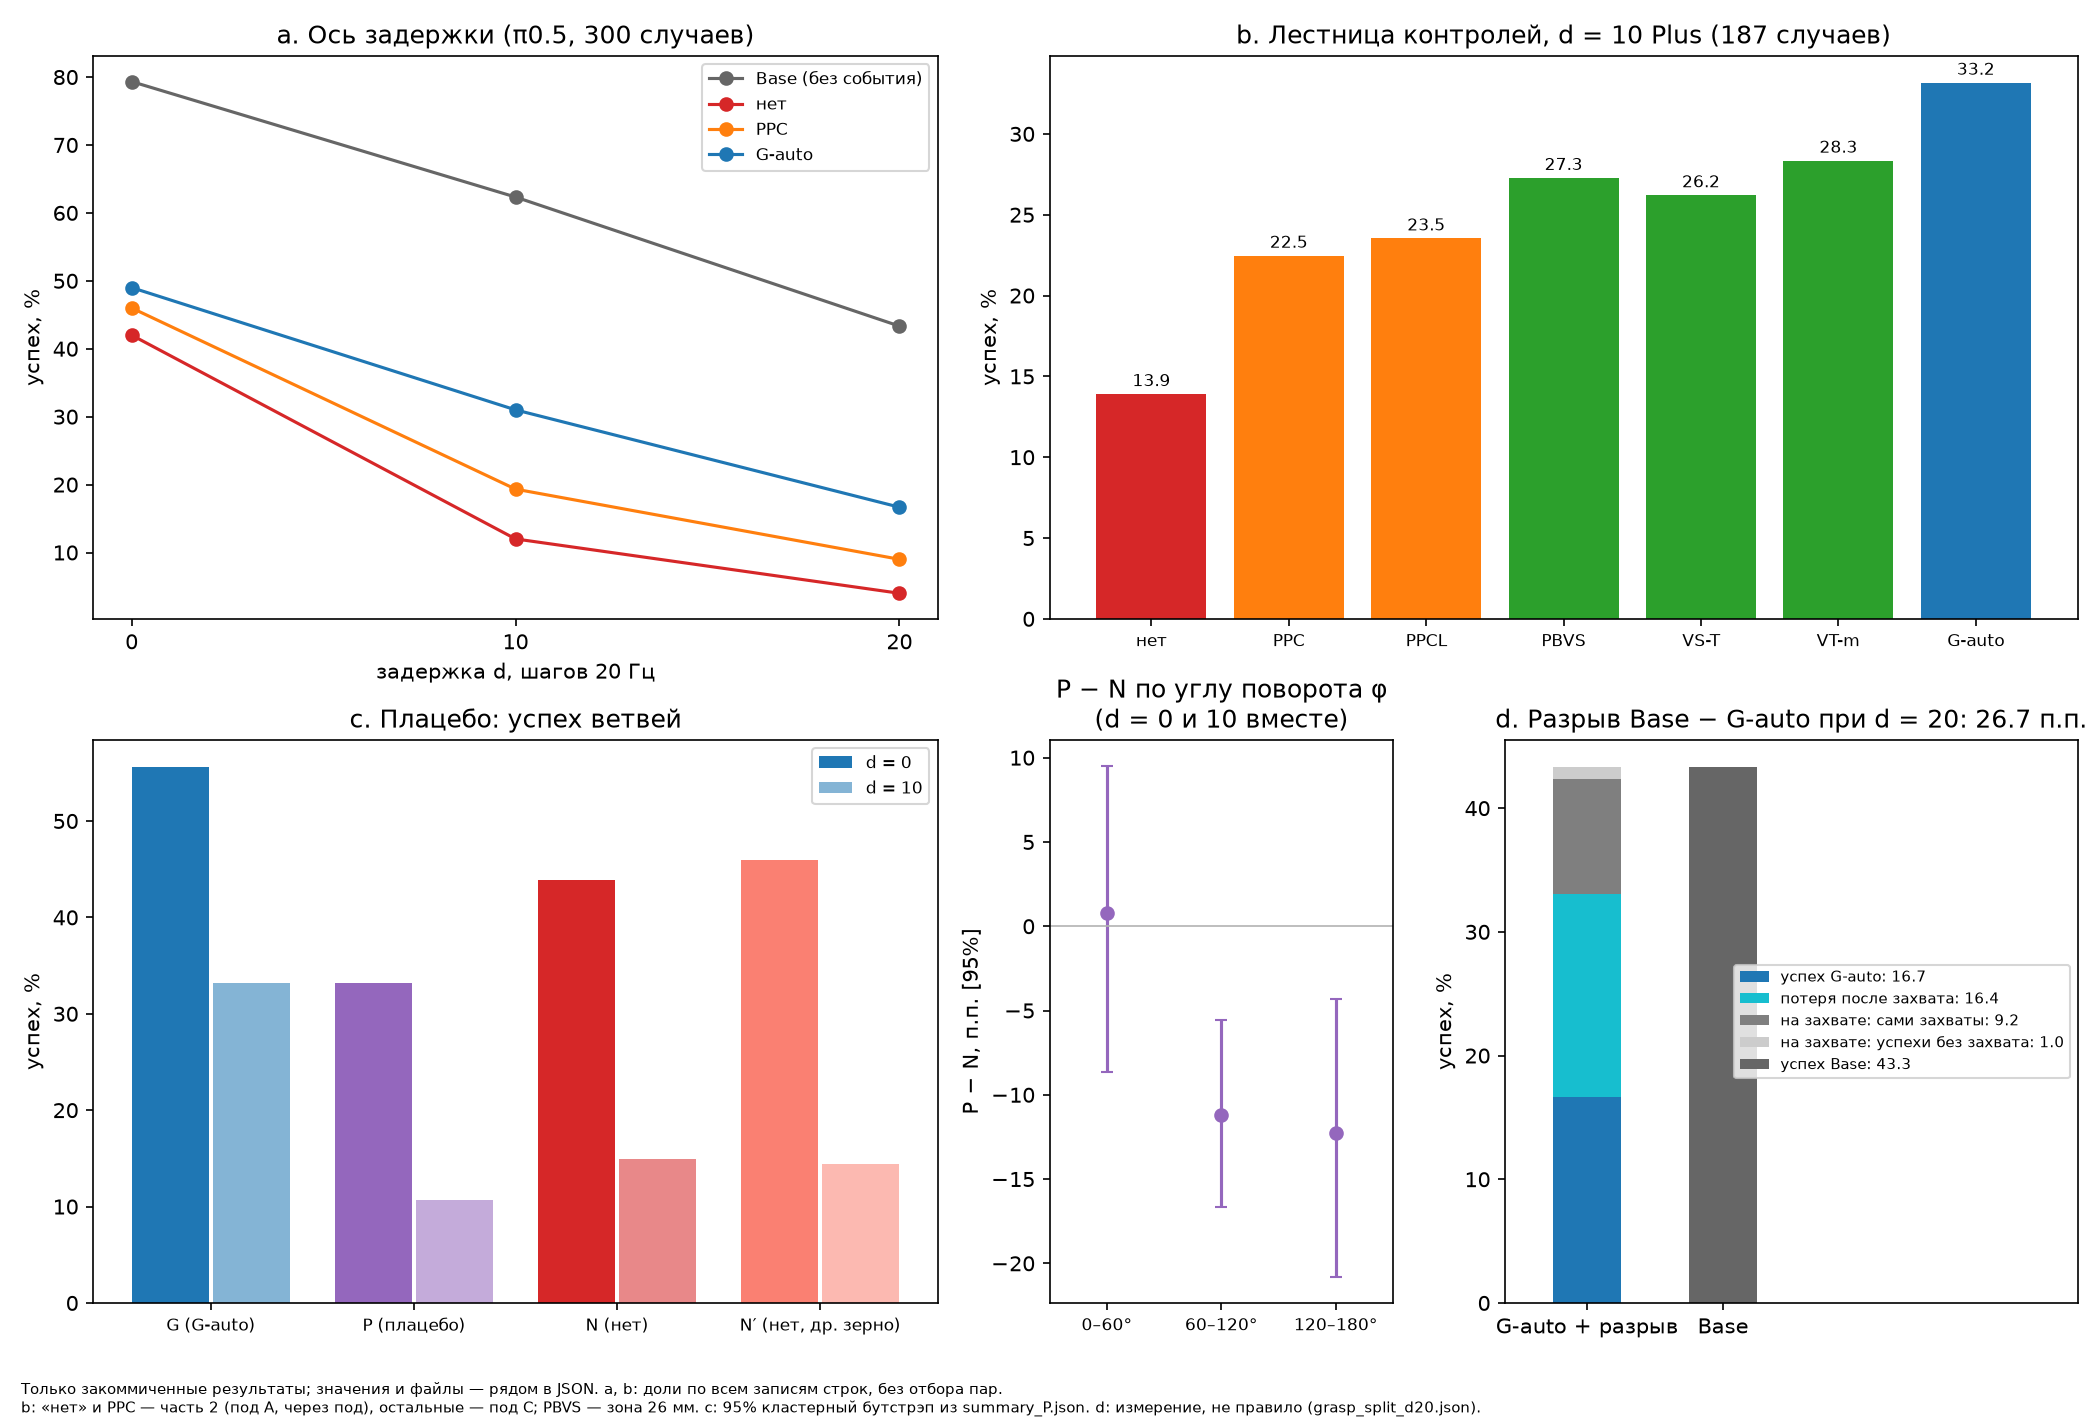
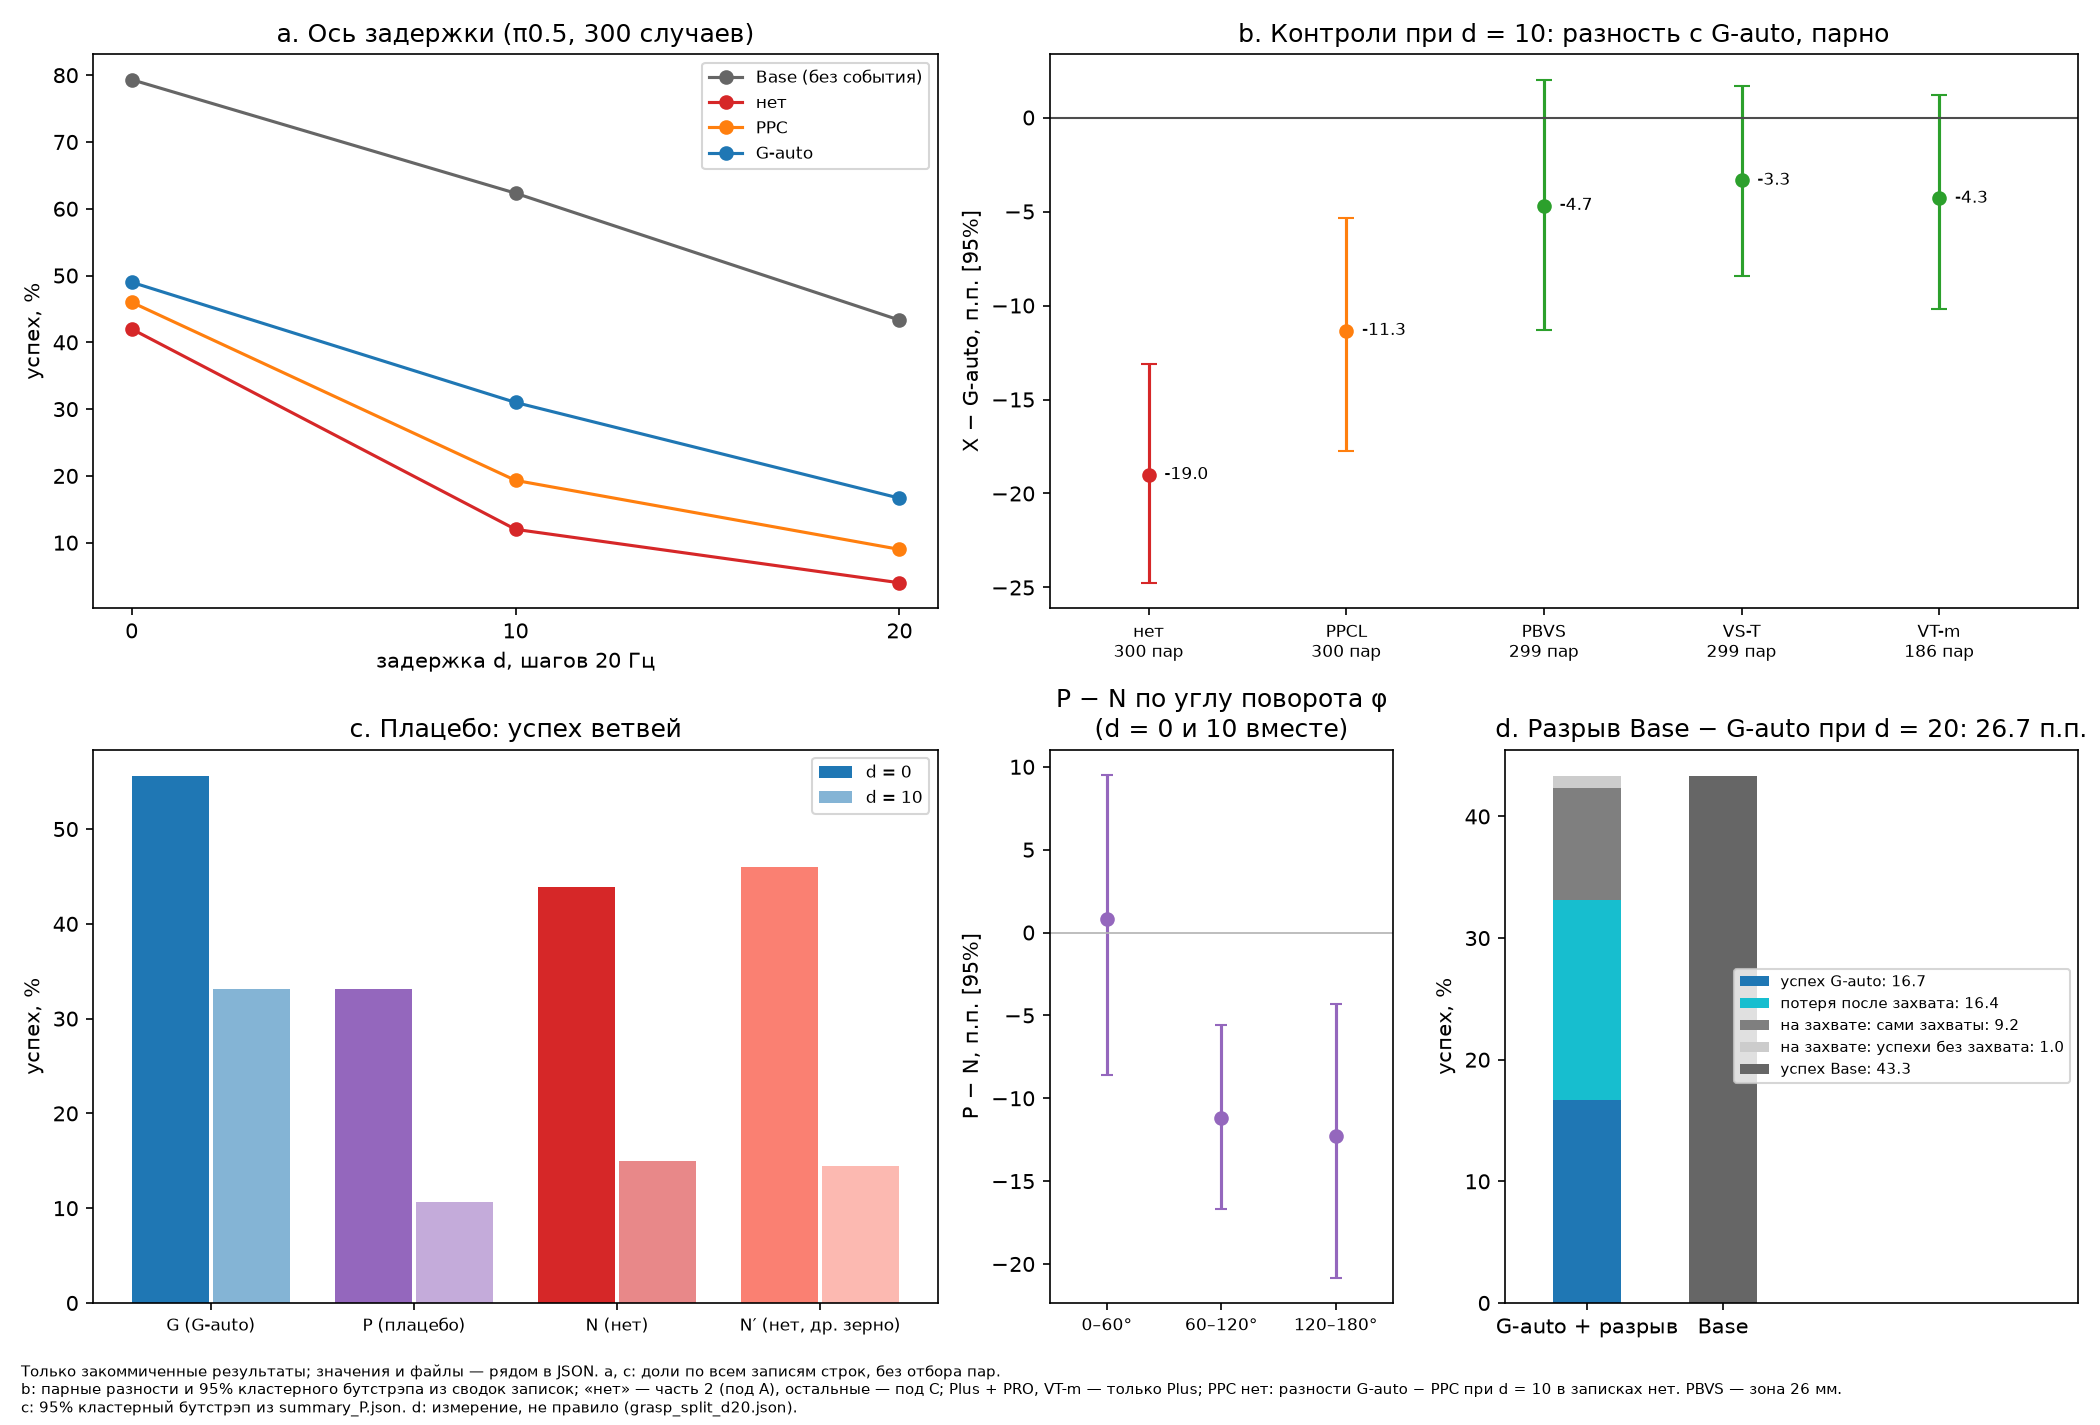
figs: panel b redrawn as paired differences X - G-auto at d = 10 with their 95% intervals, copied from the summaries the memos quote (none, PPCL, PBVS H2, VS-T T1, VT-m B main), zero as a line; the raw success shares from two pods are gone. PPC is not drawn: no memo holds G-auto - PPC at d = 10. The

diff --git a/scripts/c1e4_figs.py b/scripts/c1e4_figs.py
@@ -3,14 +3,16 @@ every drawn value and its source file.
 
   a. the delay axis: success vs d for Base, "none", PPC, G-auto (pi0.5, part 2's pod A, the first 300 evaluation cases,
      the same cases at every d; all records of those lines, no pair selection);
-  b. the ladder of controls in one cell, d = 10 Plus (187 cases, the only cell where all seven arms ran): "none" and PPC
-     from part 2's pod A (through the pod), PPCL and G-auto (controls line 3), PBVS at its 26 mm gate (V3), VS-T (VT3)
-     and VT-m (M) from pod C; success shares, no intervals;
+  b. the controls at d = 10 as paired differences X - G-auto with their 95% cluster-bootstrap intervals, copied from
+     the committed summaries the memos quote (a difference no memo holds is not drawn and not computed: G-auto - PPC
+     at d = 10 is absent, so PPC is not on the panel). "none": part 2's block D (pod A, both arms there); PPCL, PBVS
+     (26 mm gate, Н2), VS-T (Т1): pod C, Plus + PRO; VT-m (B main): pod C, Plus only. The memos' G-auto - X are shown
+     as X - G-auto: the paired percentile interval of a sign-flipped difference is the flipped interval;
   c. the placebo: G / P / N / N' success at d = 0 and 10 and P - N in the three phi bands with their 95% (summary_P.json);
   d. the gap Base - G-auto at d = 20 split into after the grasp, at the grasp (the grasp gap itself and the ungrasped
      successes apart) (grasp_split_d20.json).
-Success shares here are plain means over a line's records; the memos' differences are paired and filtered, so a share
-here can differ from a memo's in the last digit where a pair was dropped. The script checks its numbers against the
+Success shares in a and c are plain means over a line's records (no pair selection, no intervals); the memos'
+differences are paired and filtered. The script checks its numbers against the
 committed summaries where those hold the same quantity and stops on a mismatch.
 
 Run from the repository root: python scripts/c1e4_figs.py [--out results/c1-e4/figs/c1e4_figs.png]
@@ -24,6 +26,15 @@ from pathlib import Path
 A, C = "results/c1-e4/part2/pod_A", "results/c1-e4/controls/pod_C"
 P_SUM, SPLIT, P2_SUM = ("results/c1-e4/placebo/pod_P/summary_P.json", "results/c1-e4/part2/grasp_split_d20.json",
                         "results/c1-e4/part2/summary.json")
+
+
+CS = "results/c1-e4/controls/summary_{}.json"
+CONTROLS = (  # name, summary, key path, flip (the summary holds G-auto - X), what it is
+    ("нет", P2_SUM, ("report", "delay_D", "d10", "Gauto-none"), True, "часть 2, блок D, под A"),
+    ("PPCL", CS.format("C"), ("report", "gauto_ppcl", "pi05/d10"), True, "под C, Plus + PRO"),
+    ("PBVS", CS.format("V"), ("measurements", "Н2/d10"), False, "Н2, зона 26 мм, под C, Plus + PRO"),
+    ("VS-T", CS.format("T"), ("measurements", "Т1/d10"), False, "Т1, под C, Plus + PRO"),
+    ("VT-m", CS.format("M"), ("measurements", "main/d10"), False, "B, главное, под C, только Plus"))
 
 
 def share(files, kind, arm):
@@ -40,18 +51,20 @@ def share(files, kind, arm):
 
 
 def values():
-    v = {"delay": {}, "ladder": {}, "placebo": {}, "split": {}}
+    v = {"delay": {}, "controls_d10": {}, "placebo": {}, "split": {}}
     for d in (0, 10, 20):
         fs = glob.glob(f"{A}/M1M2_pi05_eval300_*_d0.jsonl" if d == 0 else f"{A}/D_pi05_eval300_*_d{d}.jsonl")
         v["delay"][d] = {"Base": share(fs, "base", "none"),
                          **{a: share(fs, "dynamic", a) for a in ("none", "PPC", "Gauto")}}
-    p = lambda f: [f"{C}/{f}_pi05_eval300_plus_d10.jsonl"]  # noqa: E731
-    for name, fs, arm in (("нет", [f"{A}/D_pi05_eval300_plus_d10.jsonl"], "none"),
-                          ("PPC", [f"{A}/D_pi05_eval300_plus_d10.jsonl"], "PPC"), ("PPCL", p("C3"), "PPCL"),
-                          ("PBVS", p("V3"), "PBVS0.3"), ("VS-T", p("VT3"), "VST0.3"), ("VT-m", p("M"), "VTm"),
-                          ("G-auto", p("C3"), "Gauto")):
-        v["ladder"][name] = share(fs, "dynamic", arm)
-    v["ladder_extra"] = {"PBVS 5 мм (строка E, только в файле)": share(p("E"), "dynamic", "PBVS0.3")}
+    for name, src, path, flip, note in CONTROLS:
+        x = json.load(open(src))
+        for k in path:
+            x = x[k]
+        e = {"diff_pp": x["diff_pp"], "lo2.5": x["lo2.5"], "hi97.5": x["hi97.5"]}
+        if flip:  # the memo's G-auto - X as X - G-auto
+            e = {"diff_pp": -e["diff_pp"], "lo2.5": -e["hi97.5"], "hi97.5": -e["lo2.5"]}
+        v["controls_d10"][name] = {**{k: round(y, 3) for k, y in e.items()}, "pairs": x["pairs"], "source": src,
+                                   "key": "/".join(path), "sign_flipped": flip, "note": note}
     ps = json.load(open(P_SUM))
     names = {"Gauto": "G", "GautoSham": "P", "none": "N", "none2": "N′"}
     v["placebo"] = {"success": {c: {names[a]: {"pct": round(100 * x[0], 2), "n": x[1]} for a, x in arms.items()}
@@ -79,7 +92,11 @@ def check(v):
     s = v["split"]
     assert abs(s["s_Gauto"] + s["after_grasp"] + s["at_grasp"] - s["s_Base"]) < 0.01
     assert abs(s["at_grasp_grasps"] + s["at_grasp_ungrasped"] - s["at_grasp"]) < 0.01
-    assert all(x["n"] == 187 for x in v["ladder"].values()), {k: x["n"] for k, x in v["ladder"].items()}
+    memo = {"нет": (-19.0, -24.7, -13.1), "PPCL": (-11.3, -17.7, -5.4), "PBVS": (-4.7, -11.3, 2.0),
+            "VS-T": (-3.3, -8.4, 1.7), "VT-m": (-4.3, -10.2, 1.2)}  # as the memos print them (part 2 §3, controls)
+    for k, m in memo.items():
+        e = v["controls_d10"][k]
+        assert all(abs(round(e[f], 1) - y) < 1e-9 for f, y in zip(("diff_pp", "lo2.5", "hi97.5"), m)), (k, e, m)
     assert all(v["delay"][d][a]["n"] == 300 for d in v["delay"] for a in v["delay"][d])
 
 
@@ -96,15 +113,18 @@ def draw(v, path):
         a.plot(ds, [v["delay"][d][arm]["pct"] for d in ds], "o-", color=col, label=lab)
     a.set(xticks=ds, xlabel="задержка d, шагов 20 Гц", ylabel="успех, %", title="a. Ось задержки (π0.5, 300 случаев)")
     a.legend(fontsize=8)
-    a = ax["b"]  # the ladder
-    names = list(v["ladder"])
-    ys = [v["ladder"][k]["pct"] for k in names]
-    cols = ["tab:red", "tab:orange", "tab:orange", "tab:green", "tab:green", "tab:green", "tab:blue"]
-    a.bar(range(len(names)), ys, color=cols)
-    for i, y in enumerate(ys):
-        a.text(i, y + 0.5, f"{y:.1f}", ha="center", fontsize=8)
-    a.set_xticks(range(len(names)), names, fontsize=8)
-    a.set(ylabel="успех, %", title="b. Лестница контролей, d = 10 Plus (187 случаев)")
+    a = ax["b"]  # the controls at d = 10, paired differences
+    cs = v["controls_d10"]
+    names = list(cs)
+    for i, k in enumerate(names):
+        e = cs[k]
+        a.errorbar(i, e["diff_pp"], yerr=[[e["diff_pp"] - e["lo2.5"]], [e["hi97.5"] - e["diff_pp"]]], fmt="o",
+                   color="tab:red" if k == "нет" else ("tab:orange" if k == "PPCL" else "tab:green"), capsize=4)
+        a.text(i + 0.08, e["diff_pp"], f"{e['diff_pp']:+.1f}", fontsize=8, va="center")
+    a.axhline(0, color="0.3", lw=1)
+    a.set_xticks(range(len(names)), [f"{k}\n{cs[k]['pairs']} пар" for k in names], fontsize=8)
+    a.set(xlim=(-0.5, len(names) - 0.3), ylabel="X − G-auto, п.п. [95%]",
+          title="b. Контроли при d = 10: разность с G-auto, парно")
     a = ax["c"]  # the placebo
     arms = ["G", "P", "N", "N′"]
     for j, (c, dx) in enumerate((("P0", -0.2), ("P10", 0.2))):
@@ -137,8 +157,10 @@ def draw(v, path):
     a.set(xlim=(-0.6, 3.6), ylabel="успех, %",
           title=f"d. Разрыв Base − G-auto при d = 20: {s['gap']:.1f} п.п.")
     a.legend(fontsize=7, loc="center right")
-    f.text(0.01, 0.005, "Только закоммиченные результаты; значения и файлы — рядом в JSON. a, b: доли по всем записям "
-           "строк, без отбора пар.\nb: «нет» и PPC — часть 2 (под A, через под), остальные — под C; PBVS — зона 26 мм. "
+    f.text(0.01, 0.005, "Только закоммиченные результаты; значения и файлы — рядом в JSON. a, c: доли по всем записям "
+           "строк, без отбора пар.\nb: парные разности и 95% кластерного бутстрэпа из сводок записок; «нет» — часть 2 (под A), "
+           "остальные — под C; Plus + PRO, VT-m — только Plus; PPC нет: разности G-auto − PPC при d = 10 в записках нет. "
+           "PBVS — зона 26 мм.\n"
            "c: 95% кластерный бутстрэп из summary_P.json. d: измерение, не правило (grasp_split_d20.json).",
            fontsize=7, va="bottom")
     f.tight_layout(rect=(0, 0.045, 1, 1))
